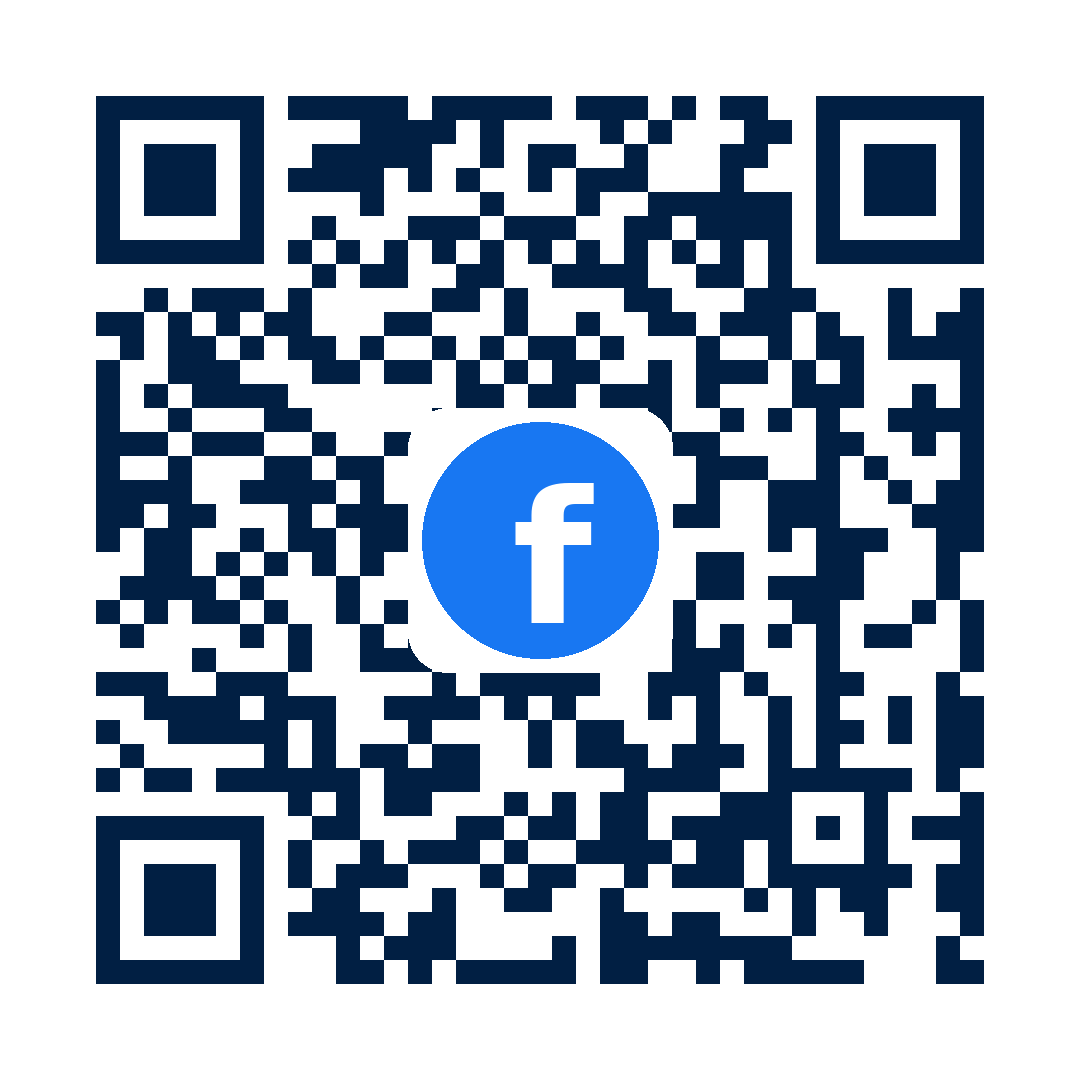
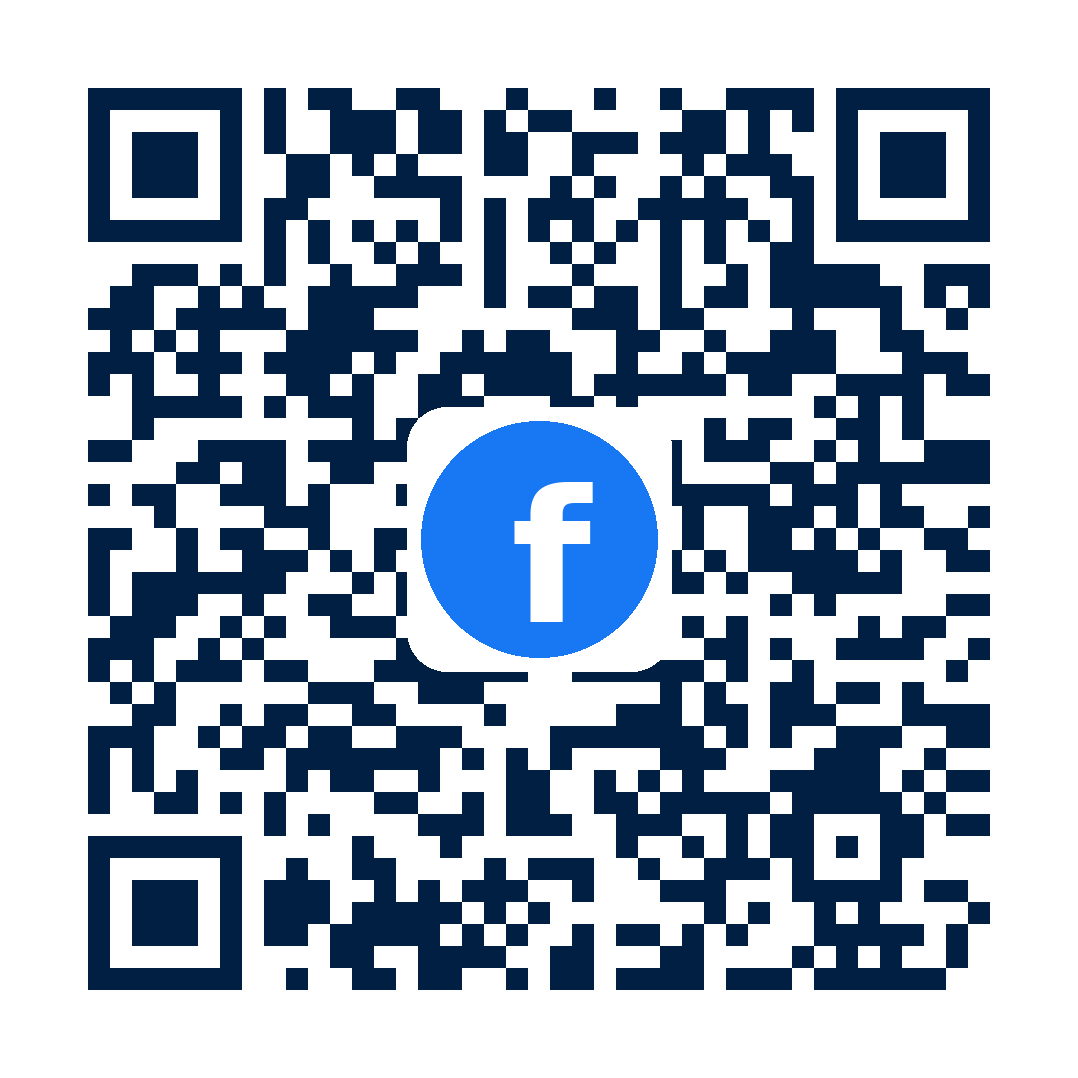
Use Facebook page URL instead of post link
Claude-Session: https://claude.ai/code/session_01MtsGVKzBjK14nddn5v4Pte

diff --git a/index.html b/index.html
@@ -898,7 +898,7 @@ window.HBC_INTEGRATIONS={googleAdsId:'',googleAdsLeadLabel:'',metaPixelId:''};
     <div class="fcols">
       <div><h3><span data-l="en">Quick links</span><span data-l="ar">روابط سريعة</span></h3><ul><li><a href="#about"><span data-l="en">About us</span><span data-l="ar">من نحن</span></a></li><li><a href="#setup-cost"><span data-l="en">Setup cost calculator</span><span data-l="ar">حاسبة تكلفة التأسيس</span></a></li><li><a href="#packages"><span data-l="en">Monthly packages</span><span data-l="ar">الباقات الشهرية</span></a></li><li><a href="guides/"><span data-l="en">Guides</span><span data-l="ar">أدلة</span></a></li><li><a href="#register"><span data-l="en">Get a free quote</span><span data-l="ar">اطلب عرض سعر</span></a></li></ul></div>
       <div><h3><span data-l="en">Our services</span><span data-l="ar">خدماتنا</span></h3><ul><li><a href="#services"><span data-l="en">Free zone company setup</span><span data-l="ar">تأسيس شركة في منطقة حرة</span></a></li><li><a href="#services"><span data-l="en">Corporate bank account</span><span data-l="ar">الحساب البنكي للشركة</span></a></li><li><a href="#services"><span data-l="en">Accounting &amp; bookkeeping</span><span data-l="ar">المحاسبة ومسك الدفاتر</span></a></li><li><a href="#services"><span data-l="en">PRO &amp; government services</span><span data-l="ar">خدمات المندوب والمعاملات الحكومية</span></a></li><li><a href="#solutions"><span data-l="en">E-commerce &amp; sourcing</span><span data-l="ar">التجارة الإلكترونية والاستيراد</span></a></li></ul></div>
-      <div><h3><span data-l="en">Contact</span><span data-l="ar">تواصل معنا</span></h3><ul><li dir="ltr"><a href="https://wa.me/971563469000" target="_blank" rel="noopener">WhatsApp +971 56 346 9000</a></li><li><a href="https://www.facebook.com/share/p/1Cwss6pMYd/" target="_blank" rel="noopener"><span data-l="en">Facebook</span><span data-l="ar">فيسبوك</span></a></li><li><a href="https://www.tiktok.com/@elharmawy.business" target="_blank" rel="noopener"><span data-l="en">TikTok</span><span data-l="ar">تيك توك</span></a></li><li dir="ltr"><a href="tel:+971563469000">+971 56 346 9000</a></li><li dir="ltr"><a href="mailto:info@elharmawy.com">info@elharmawy.com</a></li><li><span data-l="en">B.C. 1309081, C1 Building, Ajman Free Zone</span><span data-l="ar">B.C. 1309081، مبنى C1، منطقة عجمان الحرة</span></li></ul></div>
+      <div><h3><span data-l="en">Contact</span><span data-l="ar">تواصل معنا</span></h3><ul><li dir="ltr"><a href="https://wa.me/971563469000" target="_blank" rel="noopener">WhatsApp +971 56 346 9000</a></li><li><a href="https://www.facebook.com/profile.php?id=61591019476282" target="_blank" rel="noopener"><span data-l="en">Facebook</span><span data-l="ar">فيسبوك</span></a></li><li><a href="https://www.tiktok.com/@elharmawy.business" target="_blank" rel="noopener"><span data-l="en">TikTok</span><span data-l="ar">تيك توك</span></a></li><li dir="ltr"><a href="tel:+971563469000">+971 56 346 9000</a></li><li dir="ltr"><a href="mailto:info@elharmawy.com">info@elharmawy.com</a></li><li><span data-l="en">B.C. 1309081, C1 Building, Ajman Free Zone</span><span data-l="ar">B.C. 1309081، مبنى C1، منطقة عجمان الحرة</span></li></ul></div>
     </div>
     <div class="pay">
       <span class="pay-k"><span data-l="en">Secure payments</span><span data-l="ar">دفع آمن</span></span>

diff --git a/links.html b/links.html
@@ -76,7 +76,7 @@ body{padding-bottom:84px}
   <div class="k"><span>More</span><span class="ar">المزيد</span></div>
   <div class="list">
     <a href="/?source=qr#dubai-etrader" data-ev="etrader"><span class="i"><svg viewBox="0 0 24 24" fill="none" stroke="currentColor" stroke-width="2" stroke-linecap="round" stroke-linejoin="round"><path d="M3 9h18l-2 11H5z"/><path d="M8 9V6a4 4 0 0 1 8 0v3"/></svg></span><span class="t">Dubai e-Trader licence · AED 1,790<small class="ar">رخصة التاجر الإلكتروني في دبي · 1,790 درهم</small></span><span class="sp"></span></a>
-    <a href="https://www.facebook.com/share/p/1Cwss6pMYd/" target="_blank" rel="noopener" data-ev="facebook"><span class="i"><svg viewBox="0 0 24 24" fill="currentColor"><path d="M13.4 21v-7.6h2.6l.4-3h-3V8.5c0-.9.2-1.5 1.5-1.5h1.6V4.3c-.3 0-1.2-.1-2.3-.1-2.3 0-3.9 1.4-3.9 4v2.2H7.7v3h2.6V21z"/></svg></span><span class="t">Follow us on Facebook<small class="ar">تابعنا على فيسبوك</small></span><span class="sp"></span></a>
+    <a href="https://www.facebook.com/profile.php?id=61591019476282" target="_blank" rel="noopener" data-ev="facebook"><span class="i"><svg viewBox="0 0 24 24" fill="currentColor"><path d="M13.4 21v-7.6h2.6l.4-3h-3V8.5c0-.9.2-1.5 1.5-1.5h1.6V4.3c-.3 0-1.2-.1-2.3-.1-2.3 0-3.9 1.4-3.9 4v2.2H7.7v3h2.6V21z"/></svg></span><span class="t">Follow us on Facebook<small class="ar">تابعنا على فيسبوك</small></span><span class="sp"></span></a>
     <a href="https://www.tiktok.com/@elharmawy.business" target="_blank" rel="noopener" data-ev="tiktok"><span class="i"><svg viewBox="0 0 24 24" fill="currentColor"><path d="M16.8 3h-3.2v12.2a2.7 2.7 0 1 1-2.7-2.7l.7.1V9.3a6 6 0 1 0 5.2 5.9V9.1a7.9 7.9 0 0 0 4.5 1.4V7.3a4.5 4.5 0 0 1-4.5-4.3z"/></svg></span><span class="t">Follow us on TikTok<small class="ar">تابعنا على تيك توك · @elharmawy.business</small></span><span class="sp"></span></a>
     <a href="/?source=qr#visa-fees" data-ev="golden_visa"><span class="i"><svg viewBox="0 0 24 24" fill="none" stroke="currentColor" stroke-width="2" stroke-linecap="round" stroke-linejoin="round"><path d="M12 2l3 6 6 .9-4.5 4.3 1 6.3L12 16.6 6.5 19.5l1-6.3L3 8.9 9 8z"/></svg></span><span class="t">Golden Visa 10 years · property investors · AED 10,102.88<small class="ar">الإقامة الذهبية 10 سنين للمستثمر العقاري · 10,102.88 درهم</small></span><span class="sp"></span></a>
     <a href="/profile/HBC-Company-Profile-EN.pdf" target="_blank" rel="noopener" data-ev="profile_en"><span class="i"><svg viewBox="0 0 24 24" fill="none" stroke="currentColor" stroke-width="2" stroke-linecap="round" stroke-linejoin="round"><path d="M14 2H6a2 2 0 0 0-2 2v16a2 2 0 0 0 2 2h12a2 2 0 0 0 2-2V8z"/><path d="M14 2v6h6M8 13h8M8 17h5"/></svg></span><span class="t">Company profile · English (PDF)<small class="ar">الملف التعريفي بالإنجليزي</small></span><span class="sp"></span></a>

diff --git a/sw.js b/sw.js
@@ -1,5 +1,5 @@
 // HBC app service worker: makes the site installable and opens offline with the last saved copy.
-const CACHE = "hbc-v19";
+const CACHE = "hbc-v20";
 const CORE = ["/", "/site.css", "/logo.png", "/favicon.png", "/founder.jpg", "/icons/icon-192.png", "/manifest.webmanifest"];
 
 self.addEventListener("install", e => {
